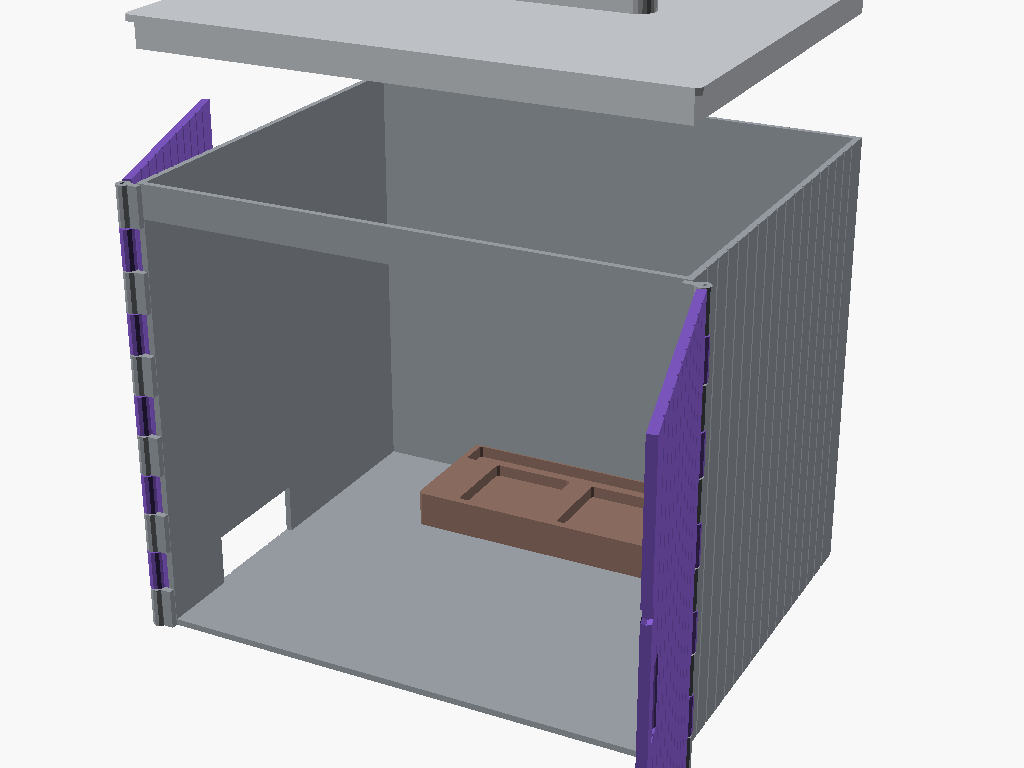
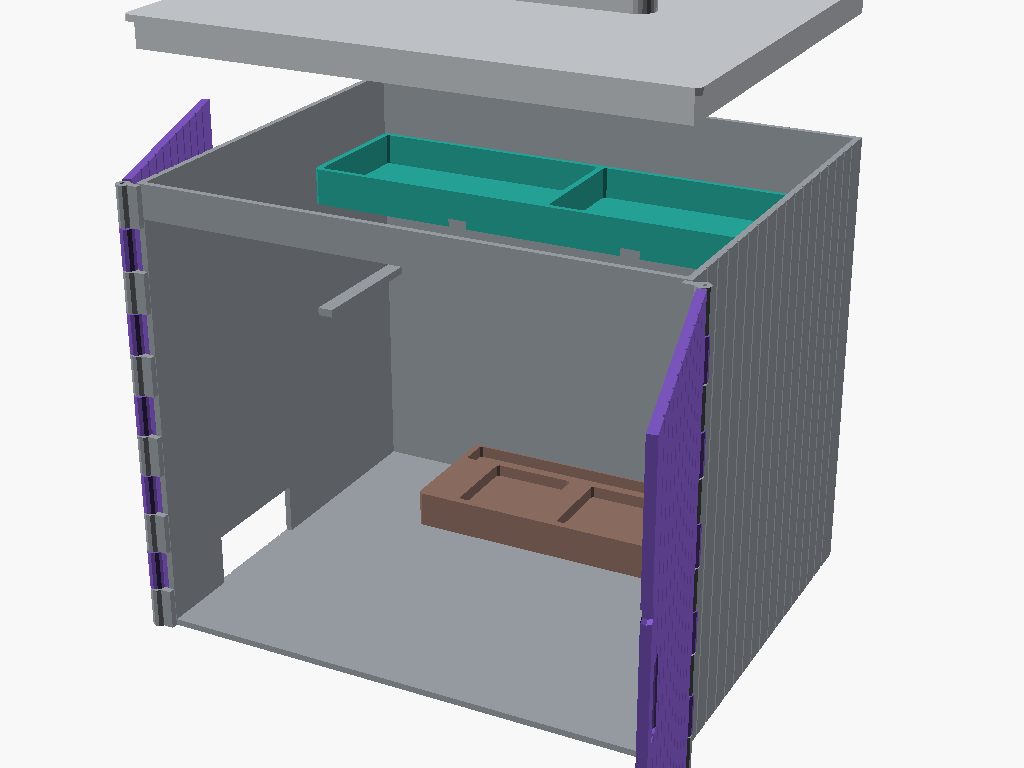
Add removable upper shelf to the kit box; fix roof handle hole
- shelf: removable 2-compartment tray that rests on two side rails over
  the rear band, using the dead vertical space above the caddy. Rails sit
  outside the caddy's width so the caddy still drops straight onto its
  dovetails; lift the shelf out by the two finger holes for caddy access.
- Beef up the carry handle (16 mm thick) and fix the hand-opening cut,
  which was outside the difference() so the slab printed solid.

Design intent confirmed: built for upright carry, so gravity + the lateral
dovetail lock are enough to hold the stack together.

Changed region(s): [[0.2812, 0.1562, 0.7812, 0.375], [0.3438, 0.3438, 0.4062, 0.375], [0.3125, 0.375, 0.3438, 0.4062]]

diff --git a/README.md b/README.md
@@ -77,7 +77,7 @@ git push origin v0.1.0
 | | Model | Parts |
 |---|---|---|
 | <img src="previews/puffco_dock_cabinet.body.png" width="120"> | [`puffco_dock_cabinet`](src/puffco/puffco_dock_cabinet.scad) | `body` · `door` · `roof` |
-| <img src="previews/puffco_kit_box.body.png" width="120"> | [`puffco_kit_box`](src/puffco/puffco_kit_box.scad) | `body` · `caddy` · `door` · `roof` |
+| <img src="previews/puffco_kit_box.body.png" width="120"> | [`puffco_kit_box`](src/puffco/puffco_kit_box.scad) | `body` · `caddy` · `door` · `roof` · `shelf` |
 | <img src="previews/puffco_knife_jar_tray.lid.png" width="120"> | [`puffco_knife_jar_tray`](src/puffco/puffco_knife_jar_tray.scad) | `lid` · `tray` |
 | <img src="previews/puffco_modular_tray.bucket.png" width="120"> | [`puffco_modular_tray`](src/puffco/puffco_modular_tray.scad) | `bucket` · `dock` · `knife_jar` · `lid` |
 
